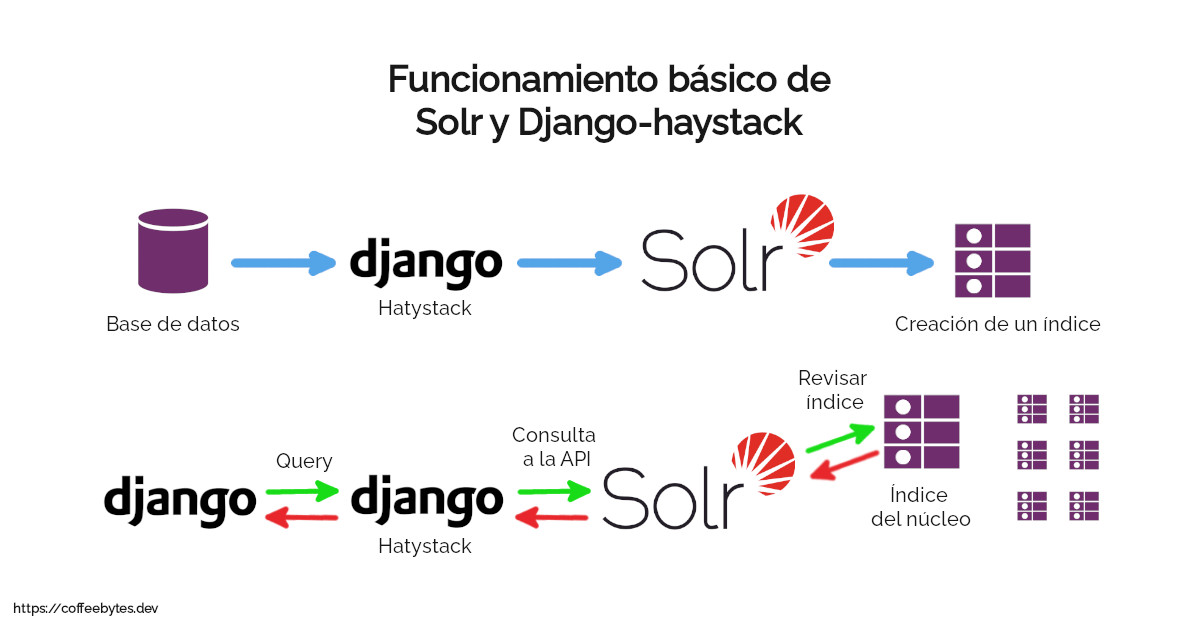
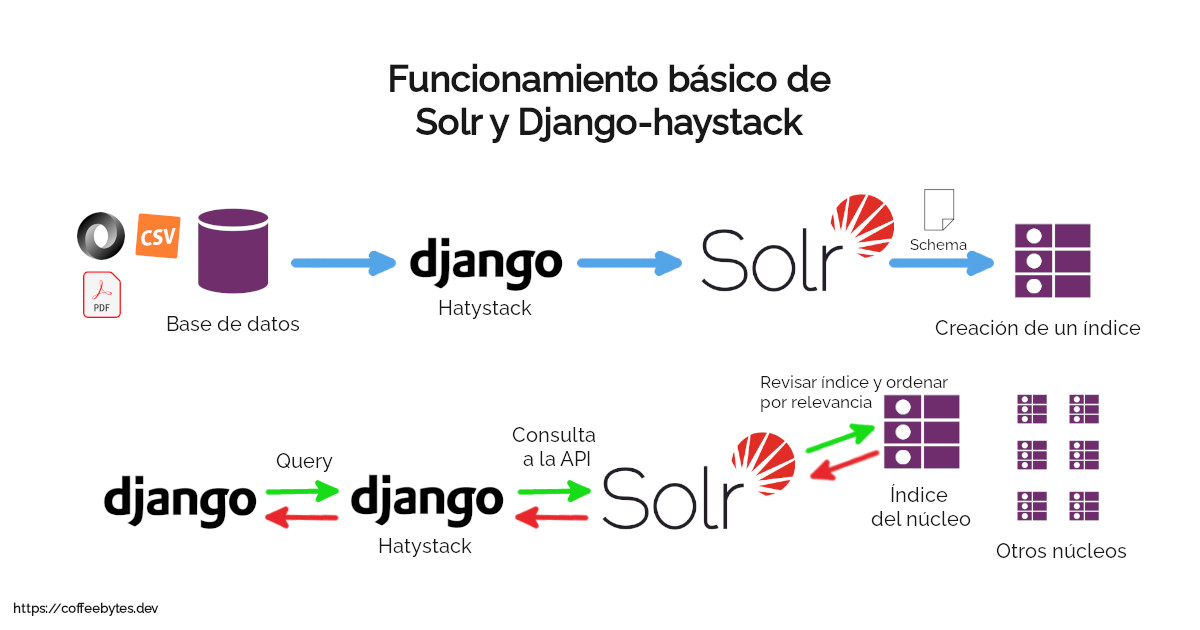
Update solr entry, add image and extend some sections

Changed region(s): [[0.0617, 0.3016, 0.9558, 0.5429], [0.6167, 0.573, 0.8017, 0.6635], [0.8325, 0.8444, 0.925, 0.9048]]

diff --git a/content/posts/solr-en-django-con-haystack/index.md b/content/posts/solr-en-django-con-haystack/index.md
@@ -6,31 +6,44 @@ coverImageCredits: "Créditos a https://www.instagram.com/we_make_mangas/"
 date: "2022-05-26"
 categories:
 - "django"
+- "backend"
 ---
 
-Anteriormente te expliqué como implementar [full text search en Django](https://coffeebytes.dev/full-text-search-y-busquedas-con-django-y-postgres/) y [trigramas y search rank](https://coffeebytes.dev/trigramas-y-busquedas-avanzadas-con-django-y-postgres/) usando Postgres. Solr viene a ofrecernos algo mejor, un motor de búsquedas robusto, estable y con muchas funciones avanzadas, a cambio de un poco más de complejidad, más dependencias y tener que incluir Java (sí, Java) en nuestro projecto.
+Anteriormente te expliqué como implementar [full text search en Django](https://coffeebytes.dev/full-text-search-y-busquedas-con-django-y-postgres/) y [trigramas y search rank](https://coffeebytes.dev/trigramas-y-busquedas-avanzadas-con-django-y-postgres/) usando Postgres. Solr viene a ofrecernos algo mejor, un motor de búsquedas robusto, estable y con muchas funciones avanzadas, listo para usarse, a cambio de un poco más de complejidad, más dependencias y tener que incluir Java (sí, Java) en nuestro projecto.
 
-## ¿Cómo funciona solr?
+## ¿Cómo funciona internamente Solr?
 
-Simplificando al extremo, solr recibe el contenido de nuestra base de datos y, usando una plantilla o esquema (schema), genera un índice con la información. Posteriormente, cuando recibe una consulta, buscará en el índice y nos devolverá él o los resultados.
+Internamente Solr usa Lucene, que es el motor de búsqueda que se encarga de generar un índice para realizar las consultas y todas las opciones relacionadas con las búsquedas, Solr agrega unas funciones extras y nos da una interfaz amigable para trabajar. De aquí en adelante me referiré a la unión de Lucene y Solr solo como Solr.
+
+Simplificando al extremo, Solr recibe el contenido de nuestra base de datos (o archivo csv, pdf, json, xml, etc.) y, usando una plantilla o esquema (managed schema), genera un índice invertido con la información. 
+
+Posteriormente, cuando Solr recibe una consulta, consultará el índice generado, ordenará los resultados de acuerdo a su relevancia y los retornará.
 
 ![Funcionamiento básico de Solr y Django haystack](images/como-funciona-solr-y-django.jpg)
+
+### Índice invertido
+
+Solr funciona con un índice invertido. Es bastante similar al índice que aparece hasta atrás en los libros técnicos, en el cada tema del libro apunta a una página; en el indexado de nuestra información se generan tokens y estos se relacionan con los documentos que los contienen.
+
+![Indice invertido de solr](images/solr-indice-invertido.jpg)
 
 ## Ventajas y desventajas de Solr
 
 ### Ventajas de Solr
 
-* Solr es muy rápido, capaz de buscar entre millones de registros en milisegundos.
-* Permite generar sugerencias de búsqueda ante errores ortográficos.
+* El índice invertido de Solr permite realizar búsquedas entre millones de registros en milisegundos.
+* Solr permite generar sugerencias de búsqueda ante errores ortográficos.
 * Devuelve sugerencias de autocompletado.
+* Capaz de realizar búsquedas geoespaciales.
 * Panel de administración con herramientas de monitoreo.
+* Herramientas de análisis avanzadas.
 * Soporte para múltiples núcleos o instancias.
 
 ### Desventajas de Solr
 
 * Configuración muy compleja.
 * Los parámetros de configuración cambian frecuentemente entre versiones.
-* Cada que haya cambios en la base de datos necesitaremos actualizar el índice.
+* Es necesario mantener el índice actualizado tras cambios en nuestros datos.
 * Requiere Java.
 
 ## Instalación y configuración de Solr
@@ -217,7 +230,7 @@ Este archivo lo llenaremos con la misma sintaxis que una plantilla normal de Dja
 
 ### Generando un managed_schema
 
-Tras crear la plantilla procederemos a generar el archivo *managed_schema* que necesitará solr para funcionar usando el comando *build_solr_schema* que nos proporciona *django-haystack*.
+Tras crear la plantilla procederemos a generar el archivo *managed_schema*, necesario para crear el índice, usando el comando *build_solr_schema* que nos proporciona *django-haystack*.
 
 ```bash
 python3 manage.py build_solr_schema > managed_schema
@@ -317,3 +330,4 @@ def vista(request):
     # ...
 ```
 
+Con lo anterior doy por terminada la entrada, probablemente en la siguiente entrada hable un poco más de las funciones de búsqueda avanzada que ofrece django haystack.
